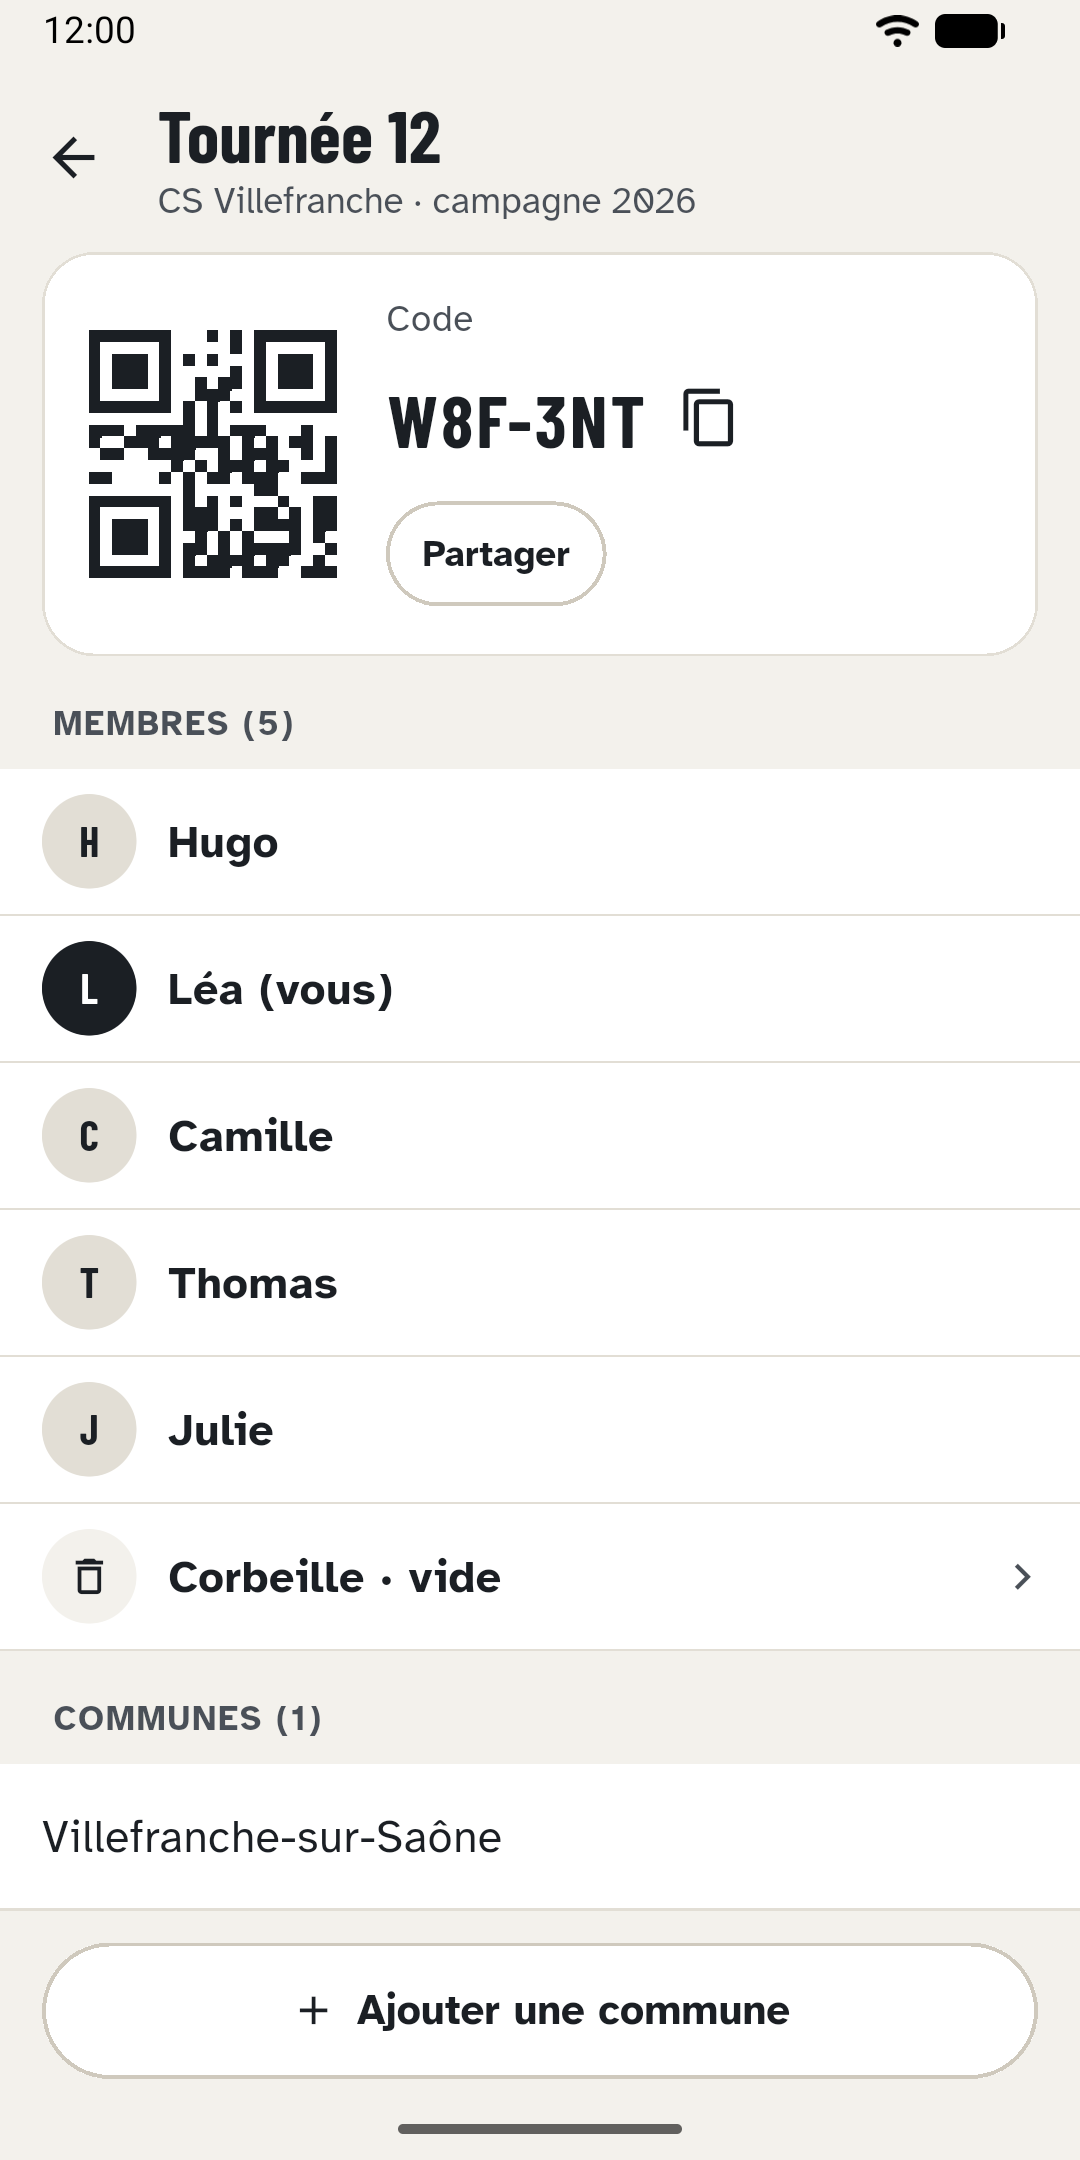
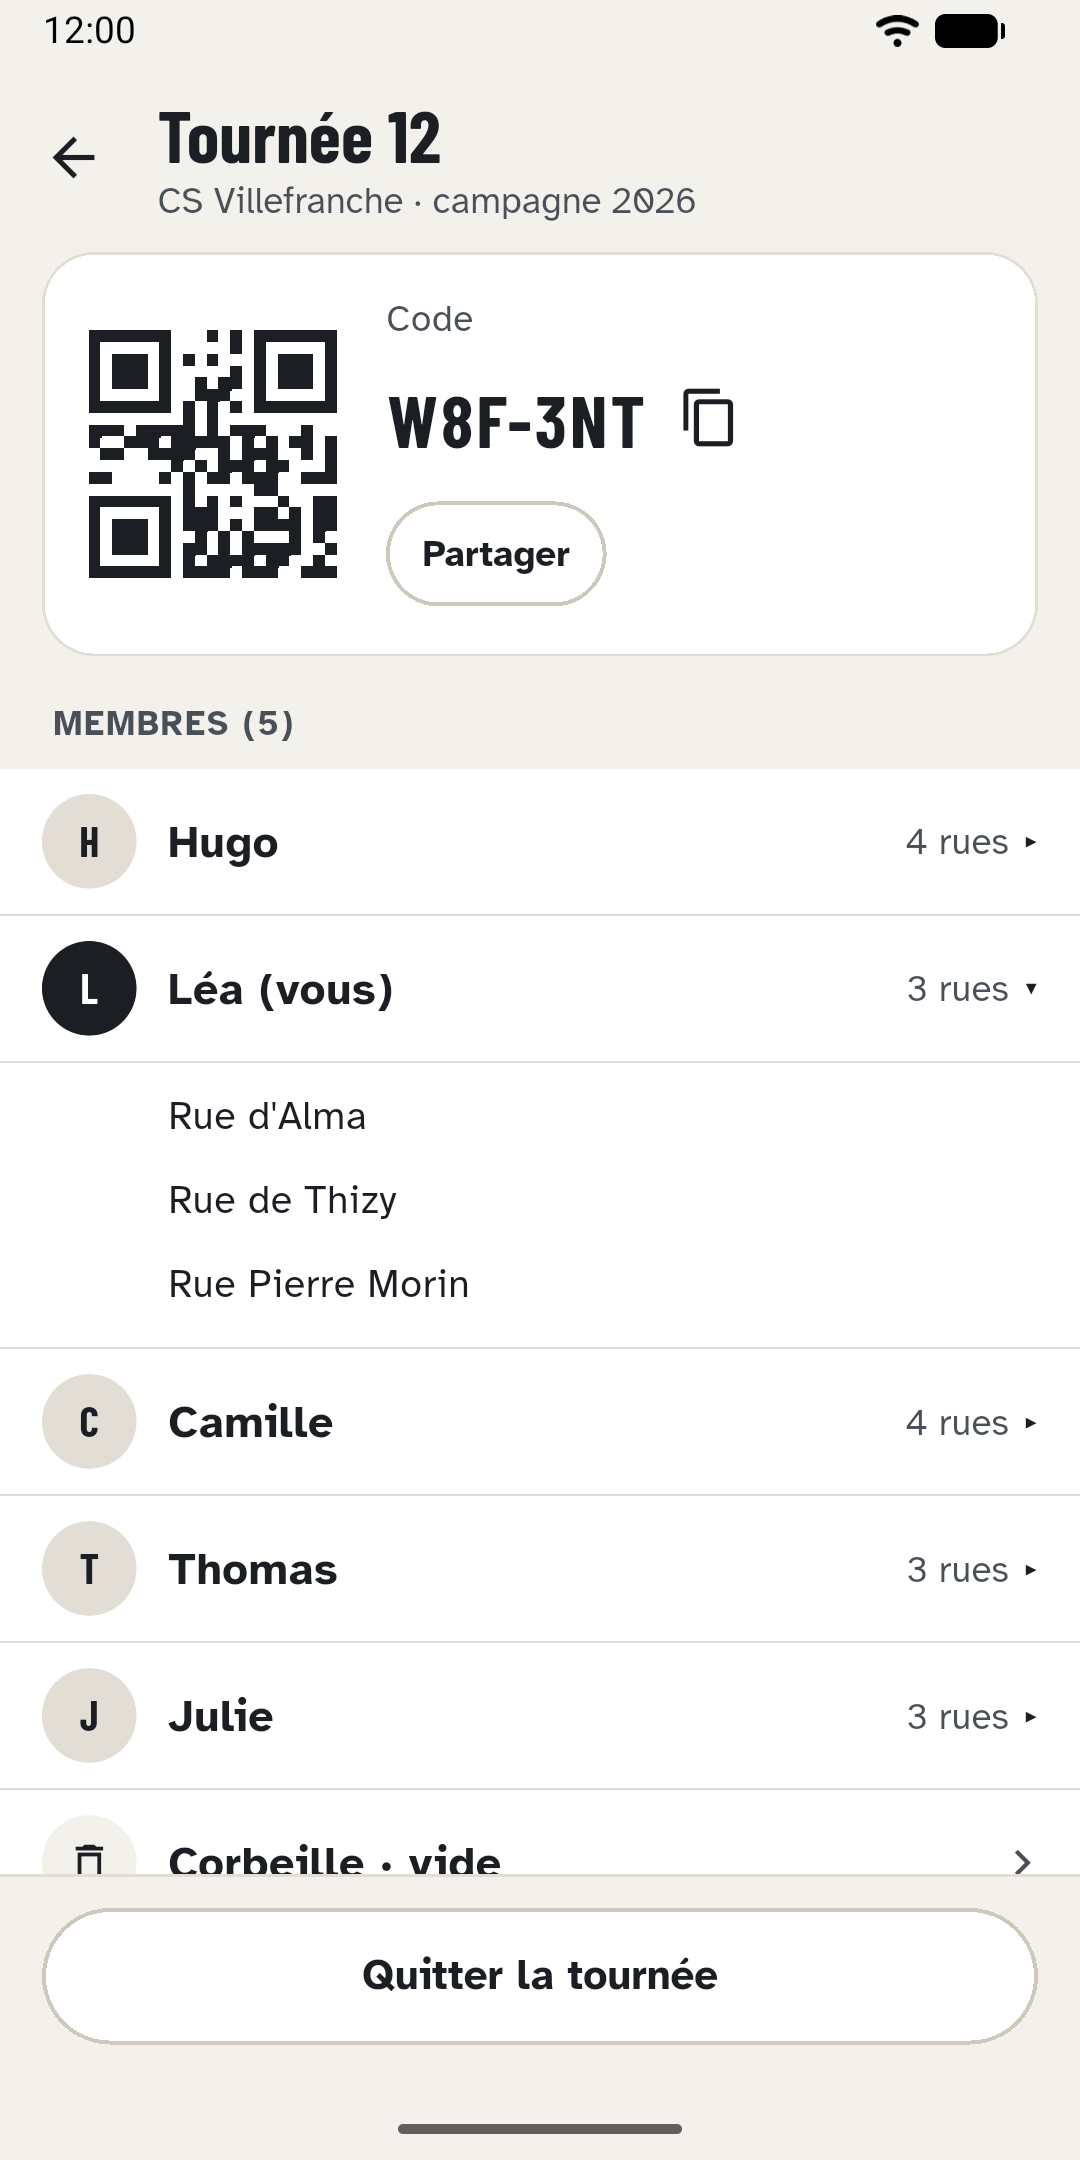
Show Léa's streets unfolded in the Équipe screenshot
Refs #105

diff --git a/integration_test/store_screenshots_test.dart b/integration_test/store_screenshots_test.dart
@@ -128,6 +128,9 @@ void main() {
     await tester.tap(find.byTooltip('Retour'));
     await tester.pumpAndSettle();
     await tester.tap(find.byKey(const Key('home.team')));
+    await tester.pumpAndSettle();
+    // Léa's own streets unfolded under her row (#105).
+    await tester.tap(find.byKey(const Key('team.member.streets')).at(1));
     await capture(tester, 'phone-5');
   });
 }
